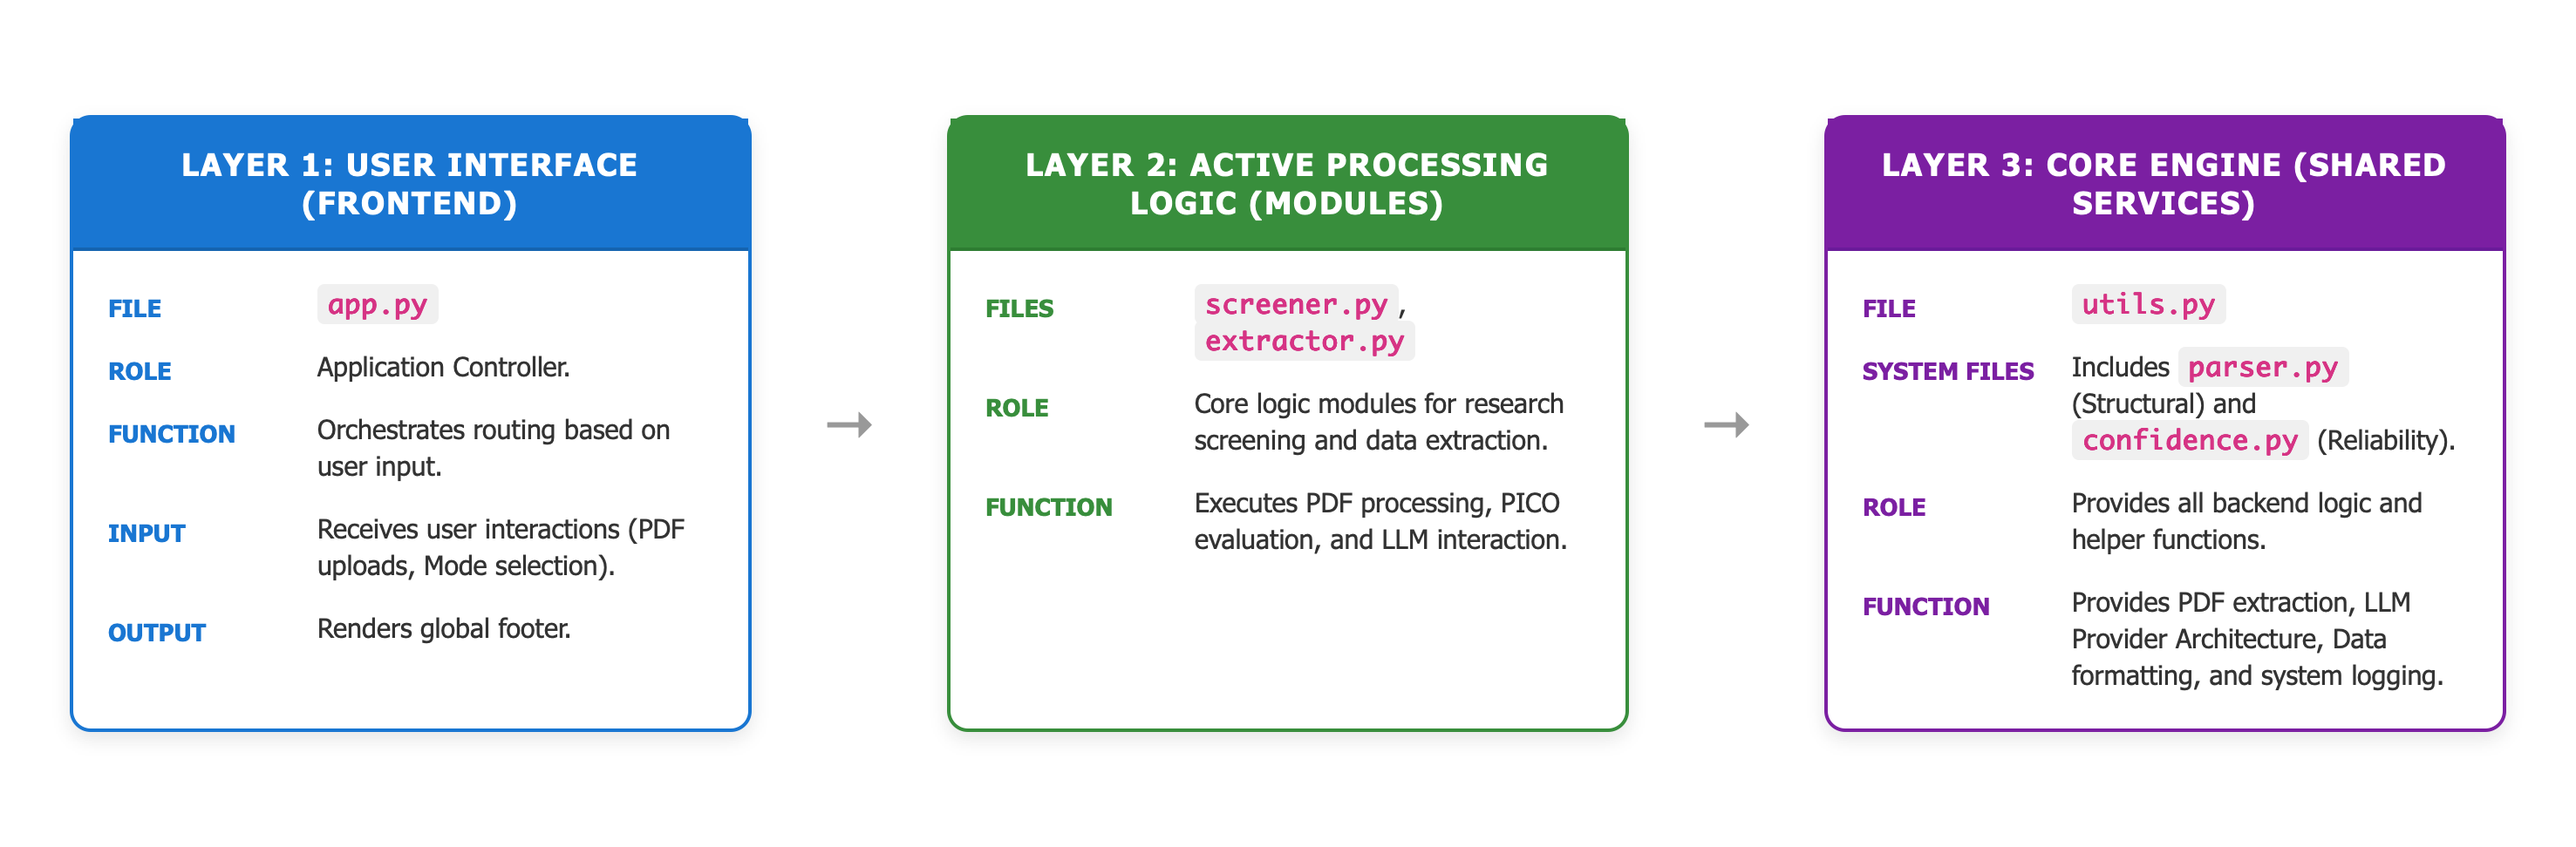
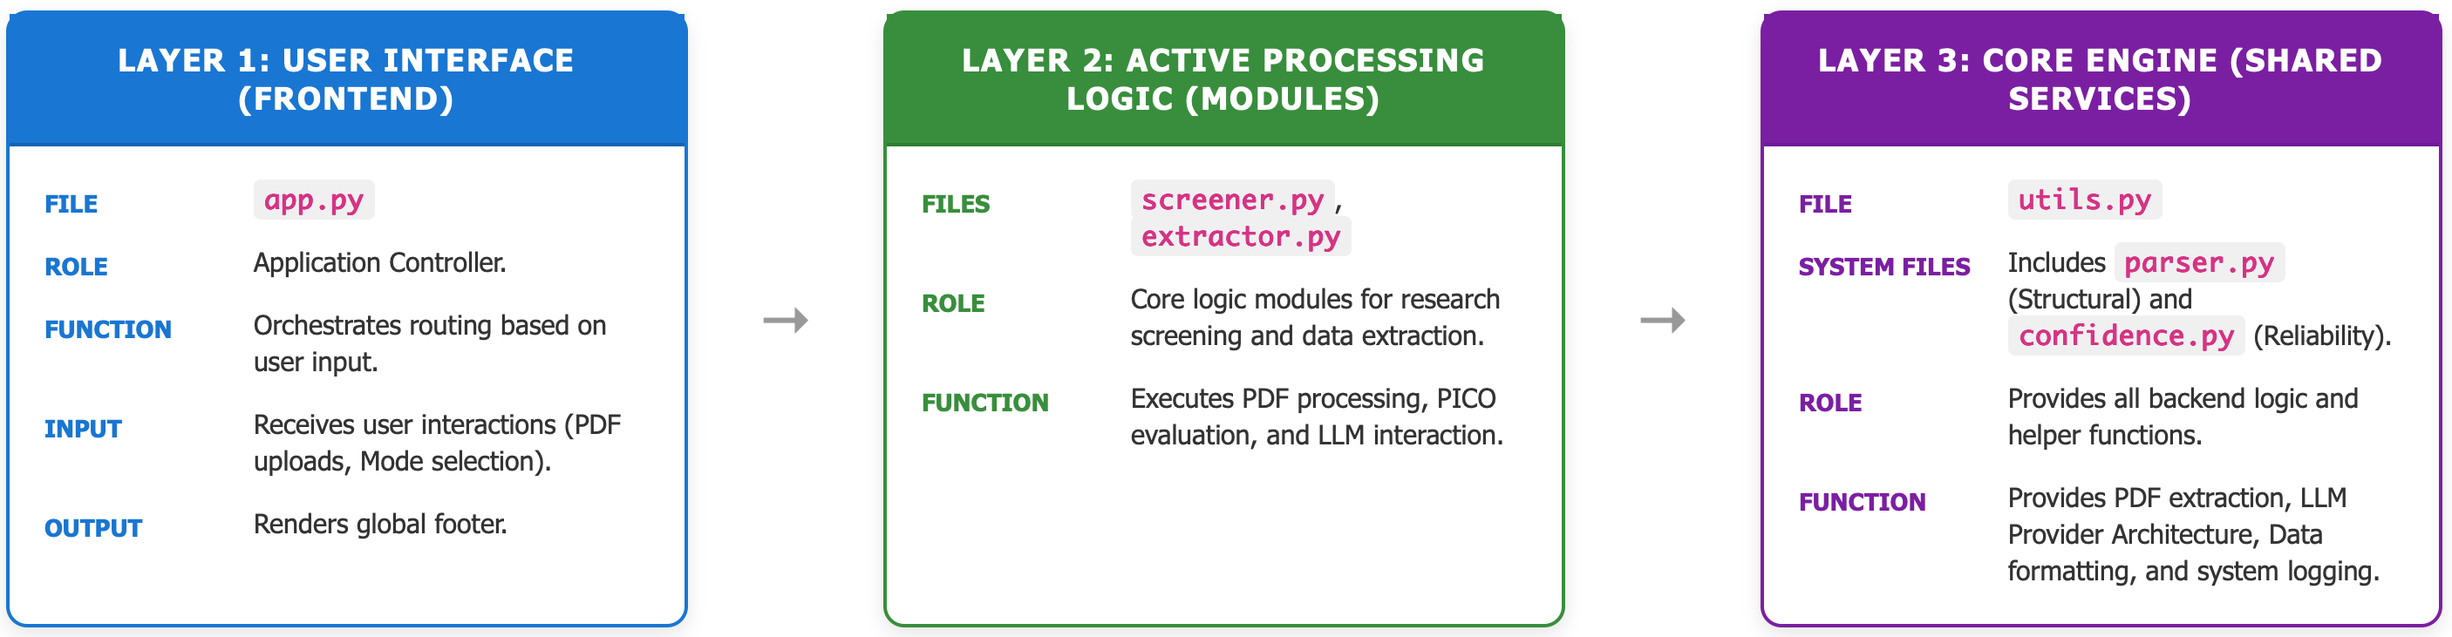
documentation

diff --git a/index.html b/index.html
@@ -1638,8 +1638,30 @@
       </div>
 
 
+<div class="section reveal">
+  <h2>OCR – Advanced Image Data Extraction</h2>
 
+  <p style="color: var(--text-secondary); line-height: 1.8;">
+    The system uses OCR (Optical Character Recognition) to extract structured data from images before parsing.
+    It was initially built using <strong>pytesseract</strong>, but has now been upgraded to
+    <strong>PaddleOCR</strong> for significantly improved accuracy, robustness, and better handling of complex layouts,
+    noisy images, and multi-line text.
+  </p>
 
+  <div class="showcase-group">
+    <div class="grid-2">
+      <img src="assets/paddleOCR.png" alt="PaddleOCR Workflow" class="showcase-img">
+    </div>
+  </div>
+
+  
+  <p style="color: var(--text-secondary); line-height: 1.4;">
+    Official Repository: 
+    <a href="https://github.com/PADDLEPADDLE/PADDLEOCR" target="_blank" style="color: #10b981;">
+      PaddleOCR GitHub
+    </a>
+  </p>
+</div>
 
 
       <div class="section reveal">
@@ -1953,7 +1975,8 @@
             <p>Z.AI – GLM-4.6V-Flash, GLM-4.5V-Flash, GLM-4.7-Flash</p>
             <p>Anthropic – Claude-Sonnet-4-20250514</p>
             <p>Ollama (local) – Llama3</p>
-            <p>Default – GLM-4.6V-Flash, GLM-4.7-Flash</p>
+            <p>Default – GLM-4.5-Flash, GLM-4.6V-Flash, GLM-4.7-Flash</p>
+            <p>You can also seamlessly switch between multiple available AI models within the default setup itself, without the need for any API key.</p>
 
           </div>
         </div>
@@ -1972,6 +1995,12 @@
             <p>I would also like to thank <strong>Mohith Balakrishnan</strong> for his thorough validation of ReviewAid,
               including batch testing, error checks, and confidence verification, which significantly improved the
               tool’s reliability and accuracy.</p>
+                <p style="color: var(--text-secondary); line-height: 1.4;">
+    Z.ai GitHub: 
+    <a href="https://github.com/zai-org" target="_blank" style="color: #10b981;">
+      zai-org.
+    </a>
+  </p>
           </div>
         </div>
       </div>

diff --git a/README.md b/README.md
@@ -114,7 +114,7 @@
 ![Z.ai](assets/zai.png)
 ![Ollama](assets/ollama1.png)
 
-ReviewAid supports configuration with the following AI providers via API keys:
+Seamlessly switch between AI models in the default setup without an API key, and also connect external providers using API keys like:
 
 * [OpenAI](https://openai.com)
 * [Anthropic (Claude)](https://claude.ai)
@@ -440,6 +440,28 @@ This layered approach ensures that high-confidence decisions are automated safel
 
 ---
 
+<details>
+<summary>OCR – Advanced Image Data Extraction</summary>
+
+**Purpose:** Extract structured data from images before parsing using advanced OCR techniques.
+
+The system uses OCR (Optical Character Recognition) to extract structured data from images before parsing. It was initially built using **pytesseract**, but has now been upgraded to **PaddleOCR** for significantly improved accuracy, robustness, and better handling of complex layouts, noisy images, and multi-line text.
+
+<img src="assets/paddleOCR.png" alt="PaddleOCR" style="max-width: 300px; height: auto;" />
+
+### PaddleOCR Workflow
+
+- Image is processed through PaddleOCR engine  
+- Text is extracted with improved accuracy  
+- Output is structured and passed to the parsing pipeline  
+- Enables reliable handling of noisy and complex images  
+
+[PaddleOCR GitHub](https://github.com/PADDLEPADDLE/PADDLEOCR)
+
+</details>
+
+---
+
 ## 📸 Screenshots
 
 ### User Interface
@@ -479,7 +501,9 @@ Check out the full **ReviewAid** walkthrough and demos on YouTube:
 
 ## 🔗 Acknowledgements
 
-![ZAI](assets/GLM-4.6V-Flash.png)
+<img src="assets/GLM-4.6V-Flash.png" alt="ZAI" style="max-width: 300px; height: auto;" />
+
+[Z.ai GitHub](https://github.com/zai-org)
 
 I gratefully acknowledge the developers of **GLM (Z.ai)** for providing the **Default** AI model used in ReviewAid.  
 
